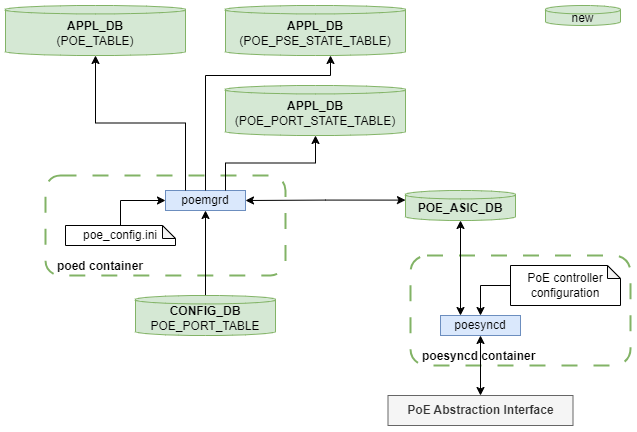
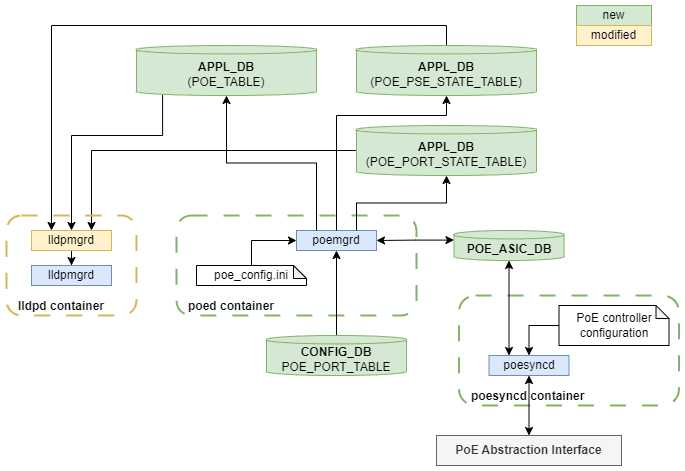
Address review comments 03-26-2024
- add SWSS cahnges
- include LLDP interaction
- add example PoE config
- mention about warm reboot requirements

diff --git a/doc/poe/poe_hld.md b/doc/poe/poe_hld.md
@@ -8,8 +8,11 @@
 - [Overview](#overview)
 - [Requirements](#requirements)
 - [Architecture Design](#architecture-design)
+  - [PoE interaction](#poe-interaction)
+  - [SWSS changes](#swss-changes)
   - [PoE SYNCD](#poe-syncd)
   - [PoE Manager](#poe-manager)
+  - [LLDP Manager](#lldp-manager-modified)
 - [High-Level Design](#high-level-design)
   - [PoE flows](#poe-flows)
     - [PoE data collection](#poe-data-collection)
@@ -28,7 +31,8 @@
 
  | Rev | Date |     Author     | Change Description |
  |:---:|:----:|:--------------:|--------------------|
- | 0.1 |      | Volodymyr Mytnyk |  Initial version   |
+ | 0.1 | 03-26-2024 | Volodymyr Mytnyk |  Initial version |
+ | 0.2 | 04-01-2024 | Volodymyr Mytnyk |  Add SWSS cahnges, include LLDP interaction, add example PoE config, mention about warm reboot requirements |
 
 ### Scope  
 
@@ -50,7 +54,8 @@ Ethernet switch (e.g. campus specific platforms) today often comes with Power ov
 - PoE feature can be enabled via compile option (disabled by default);
 - PoE config persistence during SONiC reboot;
 - Support CLI configurations as mentioned in [config section](#config-commands) and [show section](#show-commands);
-- Warm boot (future);
+- LLDP support (PoE power reporting only, future releases);
+- Warm boot;
 
 ### Architecture Design 
 
@@ -69,6 +74,13 @@ The following diagram explains the changes needed in existing SONiC architecture
 This section describes the detail interaction of PoE componnents, DB and PoE hardware (controller) in SONiC subsytem.
 
 ![poe-interaction](images/poe_interaction.png)
+
+#### SWSS changes
+
+In case to support external and separate PoE SAI, and following SONiC architecture design, SWSS container needs to be extended
+with PoE orch deamon that will handle all PoE ASIC DB requests and does PoE initialization.
+
+![swss-changes](images/poe_swss_poesyncd.png)
 
 #### PoE SYNCD
 
@@ -94,6 +106,46 @@ PoE manager consists of a daemon that implements the following functionality:
   - PSE information;
 - apply PoE controller configuration;
 - track changes in config, appl DB;
+
+##### Configuration
+
+Below is a example of PoE configuration used by PoE manager on start up. The mapping between PoE port and ASIC port is done via front panel id.
+```
+{
+  "hw_info": "integrated_mcu",
+  "pse_list": [
+    {
+      "pse_index": 0
+    },
+    {
+      "pse_index": 1
+    },
+    ...
+  ],
+  "port_mapping_list": [
+    {
+      "Ethernet0": 
+      {
+          "front_panel_index": 1
+      },
+      ...
+      "Ethernet47": 
+      {
+          "front_panel_index": 48
+      }
+    }
+  ]
+}
+```
+
+#### LLDP manager (modified)
+
+To exchange the PoE information with peer about power supply capability, the LLDP protocol is used. In case to support
+that, LLDP manager is required to be modified as following:
+
+- LLDP manager gets PoE information (from application PoE database).
+- LLDP manager adds LLDP TLV with PoE information into LLDP packet.
+- LLDP negotiation (future versions).
 
 ### High-Level Design 
 
@@ -192,7 +244,7 @@ The PoE Manager uses a new SAI PoE library that implements the PoE Abstraction I
 #### Manifest (if the feature is an Application Extension)
 Feature is not an Application Extension
 
-#### CLI/YANG model Enhancements 
+#### CLI
 
 ##### Show commands
 - show poe status
@@ -234,6 +286,10 @@ $ config poe interface power_limit Ethernet0 20.4
 ```
 
 **TODO**: update CLI reference https://github.com/sonic-net/sonic-utilities/blob/master/doc/Command-Reference.md
+
+#### YANG model Enhancements
+
+TBD
 
 #### Config DB Enhancements  
 
@@ -287,7 +343,8 @@ In SONiC all the peripheral devices data (information relared to PoE) will be st
 
 
 ### Warmboot and Fastboot Design Impact  
-Future
+
+In scope of current desgin, the PoE functionality should continue to work across warm boot. The PoE configuration is present in the ASIC database and therefore should be compatible with existing SYNCD and its warm boot capabilities.
 
 ### Memory Consumption
 This sub-section covers the memory consumption analysis for the new feature: no memory consumption is expected when the feature is disabled via compilation and no growing memory consumption while feature is disabled by configuration. 
@@ -308,7 +365,6 @@ System testing can be done only on systems with PoE hardware support.
 
 TBD
 
-### Open/Action items - if any 
-None
+### Open/Action items
 
-NOTE: All the sections and sub-sections given above are mandatory in the design document. Users can add additional sections/sub-sections if required.
+- SONiC Yang models needs to be provided as a part of this design.
